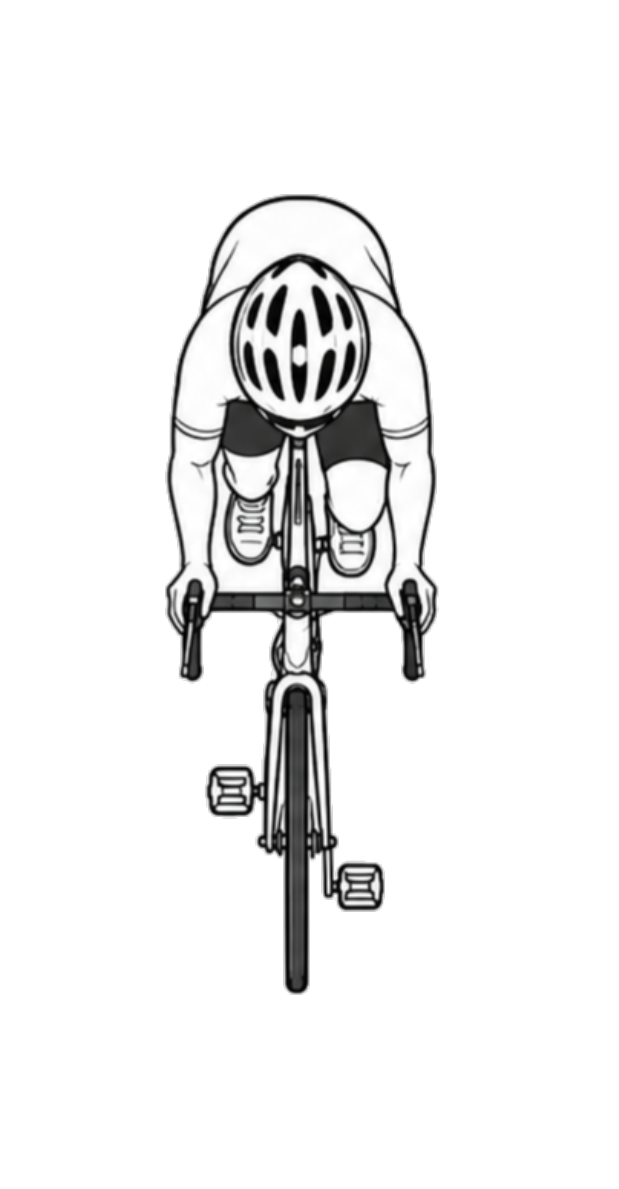
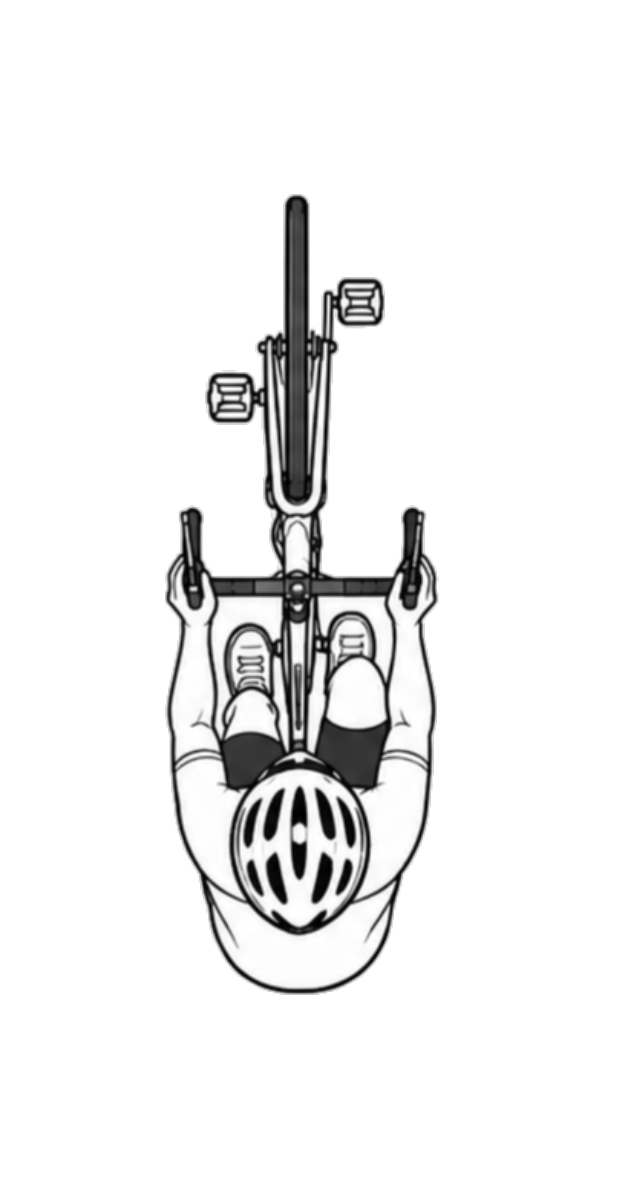
Car-Race-8 v15: 腳踏車與跑車2遮罩上下翻轉修正+繪圖板跑車4/5/6改名跑車1/2/3+腳踏車機車尺寸縮為0.7倍

Changed region(s): [[0.2456, 0.1556, 0.706, 0.8402]]

diff --git a/Car-Race-8/js/mobile.js b/Car-Race-8/js/mobile.js
@@ -5,12 +5,12 @@
   const CANVAS_H = 1189;
 
   const CAR_TYPES = {
-    bike1:  { label: '腳踏車', cat: 'bicycle',    src: 'assets/mask-bike1.png'  },
-    moto1:  { label: '機車1',   cat: 'motorcycle', src: 'assets/mask-moto1.png'  },
-    moto2:  { label: '機車2',   cat: 'motorcycle', src: 'assets/mask-moto2.png'  },
-    sport4: { label: '跑車4',   cat: 'sports',     src: 'assets/mask-sport4.png' },
-    sport5: { label: '跑車5',   cat: 'sports',     src: 'assets/mask-sport5.png' },
-    sport6: { label: '跑車6',   cat: 'sports',     src: 'assets/mask-sport6.png' }
+    bike1:  { label: '腳踏車', cat: 'bicycle',    src: 'assets/mask-bike1.png?v=15'  },
+    moto1:  { label: '機車1',   cat: 'motorcycle', src: 'assets/mask-moto1.png?v=15'  },
+    moto2:  { label: '機車2',   cat: 'motorcycle', src: 'assets/mask-moto2.png?v=15'  },
+    sport4: { label: '跑車1',   cat: 'sports',     src: 'assets/mask-sport4.png?v=15' },
+    sport5: { label: '跑車2',   cat: 'sports',     src: 'assets/mask-sport5.png?v=15' },
+    sport6: { label: '跑車3',   cat: 'sports',     src: 'assets/mask-sport6.png?v=15' }
   };
 
   const ABLY_KEY = 'XGHDcg.6rIvFg:As3RE8ShoT67QAg1O2GoyRSN50RosUlk5Yfwo4eJkBc';

diff --git a/Car-Race-8/index.html b/Car-Race-8/index.html
@@ -6,7 +6,7 @@
   <title>Flower 1 世界賽</title>
   <link rel="preconnect" href="https://fonts.googleapis.com">
   <link href="https://fonts.googleapis.com/css2?family=Orbitron:wght@400;700;900&family=Noto+Sans+TC:wght@400;700;900&display=swap" rel="stylesheet">
-  <link rel="stylesheet" href="css/main-screen.css?v=14">
+  <link rel="stylesheet" href="css/main-screen.css?v=15">
 </head>
 <body>
   <div class="app">
@@ -51,7 +51,7 @@
         <rect id="skyRect" x="0" y="0" width="1300" height="800" fill="url(#skyGrad)"/>
 
         <!-- 賽道底圖（最底層背景，全畫面） -->
-        <image id="trackImage" href="賽道2.png?v=14" x="0" y="0" width="1300" height="800" preserveAspectRatio="none"/>
+        <image id="trackImage" href="賽道2.png?v=15" x="0" y="0" width="1300" height="800" preserveAspectRatio="none"/>
 
         <!-- 真正的跑道（在底圖上方） -->
         <g id="roadLayer"></g>
@@ -113,6 +113,6 @@
   <script src="vendor/ably.min.js?v=2"></script>
   <script src="vendor/qrcode.min.js?v=2"></script>
   <script src="js/track-path.js?v=12"></script>
-  <script src="js/main-screen.js?v=14"></script>
+  <script src="js/main-screen.js?v=15"></script>
 </body>
 </html>

diff --git a/Car-Race-8/js/main-screen.js b/Car-Race-8/js/main-screen.js
@@ -21,9 +21,9 @@
 
   /* ── 交通工具規格（×1.2 放大），cat 決定音色分類 ── */
   const CAR = {
-    bike1:  { w: 52, h: 100, mask: 'mask-bike1.png',  cat: 'bicycle'    },
-    moto1:  { w: 56, h: 108, mask: 'mask-moto1.png',  cat: 'motorcycle' },
-    moto2:  { w: 54, h: 104, mask: 'mask-moto2.png',  cat: 'motorcycle' },
+    bike1:  { w: 36, h: 70,  mask: 'mask-bike1.png',  cat: 'bicycle'    },
+    moto1:  { w: 39, h: 76,  mask: 'mask-moto1.png',  cat: 'motorcycle' },
+    moto2:  { w: 38, h: 73,  mask: 'mask-moto2.png',  cat: 'motorcycle' },
     sport4: { w: 62, h: 114, mask: 'mask-sport4.png', cat: 'sports'     },
     sport5: { w: 64, h: 116, mask: 'mask-sport5.png', cat: 'sports'     },
     sport6: { w: 66, h: 118, mask: 'mask-sport6.png', cat: 'sports'     },
@@ -326,7 +326,7 @@
     const g = elSvg('g', { class: 'car-wrap' });
     const scaleG = elSvg('g', { class: 'car-scale' });
     const img = elSvg('image', {
-      href: imgData || ('assets/' + spec.mask),
+      href: imgData || ('assets/' + spec.mask + '?v=15'),
       x: String(-spec.w / 2), y: String(-spec.h / 2),
       width: String(spec.w), height: String(spec.h),
       filter: 'url(#carOutline)',

diff --git a/Car-Race-8/mobile.html b/Car-Race-8/mobile.html
@@ -6,7 +6,7 @@
   <title>賽車著色</title>
   <link rel="preconnect" href="https://fonts.googleapis.com">
   <link href="https://fonts.googleapis.com/css2?family=Orbitron:wght@400;700;900&family=Noto+Sans+TC:wght@400;700;900&display=swap" rel="stylesheet">
-  <link rel="stylesheet" href="css/mobile.css?v=14">
+  <link rel="stylesheet" href="css/mobile.css?v=15">
 </head>
 <body>
   <div class="app-shell">
@@ -76,6 +76,6 @@
   </div>
 
   <script src="vendor/ably.min.js?v=1"></script>
-  <script src="js/mobile.js?v=14"></script>
+  <script src="js/mobile.js?v=15"></script>
 </body>
 </html>
